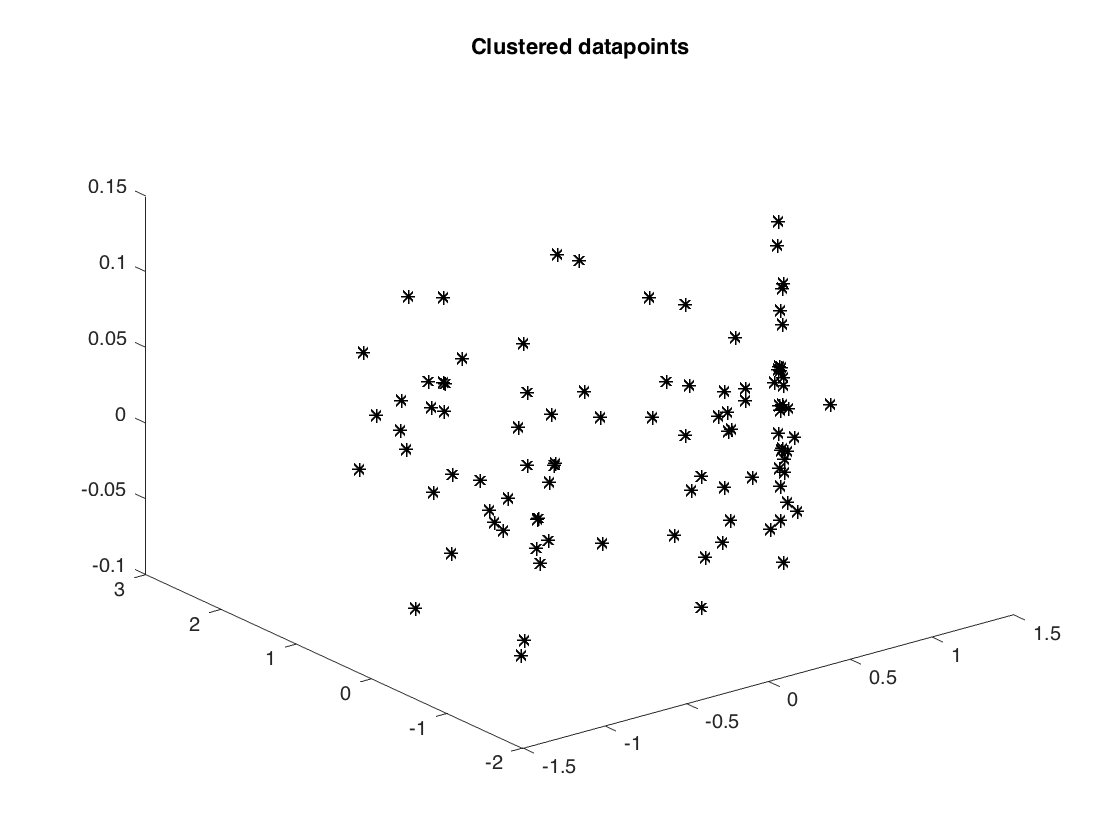
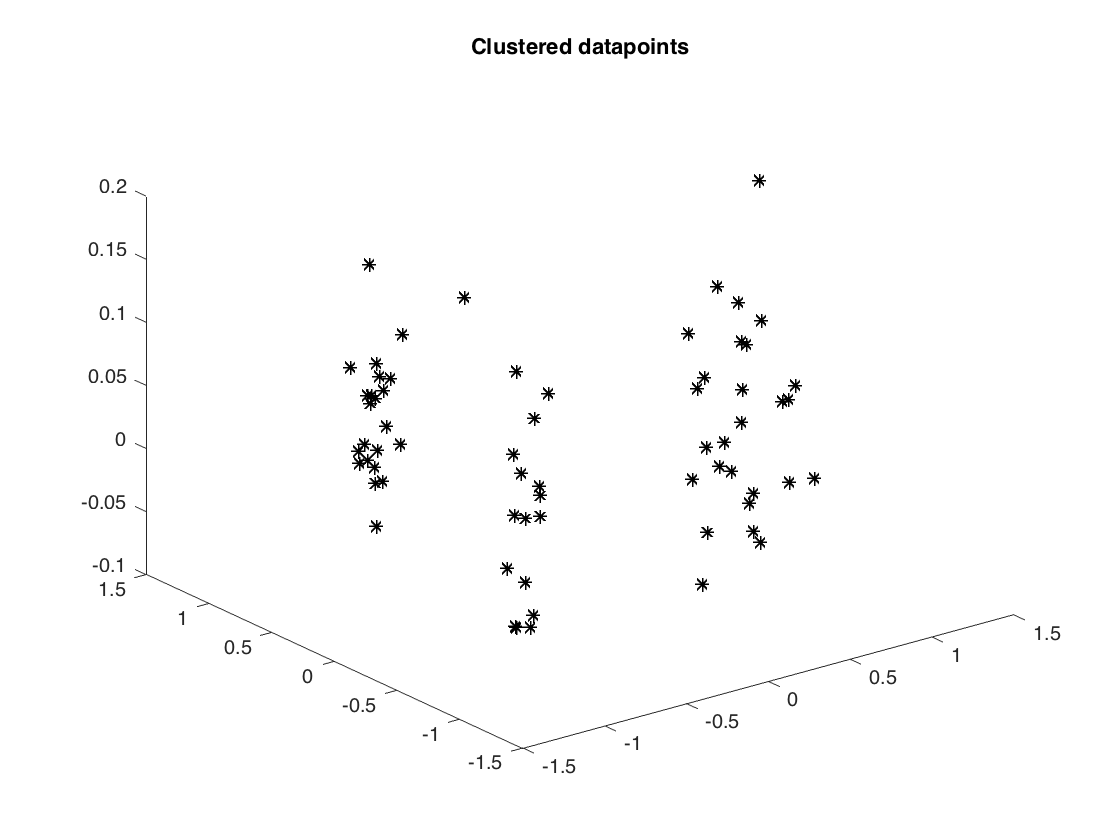
Add files via upload

diff --git a/Chapter07/html/Chapter07.html b/Chapter07/html/Chapter07.html
@@ -6,7 +6,7 @@
    <!--
 This HTML was auto-generated from MATLAB code.
 To make changes, update the MATLAB code and republish this document.
-      --><title>Chapter07</title><meta name="generator" content="MATLAB 8.6"><link rel="schema.DC" href="http://purl.org/dc/elements/1.1/"><meta name="DC.date" content="2020-09-11"><meta name="DC.source" content="Chapter07.m"><style type="text/css">
+      --><title>Chapter07</title><meta name="generator" content="MATLAB 8.6"><link rel="schema.DC" href="http://purl.org/dc/elements/1.1/"><meta name="DC.date" content="2020-09-12"><meta name="DC.source" content="Chapter07.m"><style type="text/css">
 html,body,div,span,applet,object,iframe,h1,h2,h3,h4,h5,h6,p,blockquote,pre,a,abbr,acronym,address,big,cite,code,del,dfn,em,font,img,ins,kbd,q,s,samp,small,strike,strong,sub,sup,tt,var,b,u,i,center,dl,dt,dd,ol,ul,li,fieldset,form,label,legend,table,caption,tbody,tfoot,thead,tr,th,td{margin:0;padding:0;border:0;outline:0;font-size:100%;vertical-align:baseline;background:transparent}body{line-height:1}ol,ul{list-style:none}blockquote,q{quotes:none}blockquote:before,blockquote:after,q:before,q:after{content:'';content:none}:focus{outine:0}ins{text-decoration:none}del{text-decoration:line-through}table{border-collapse:collapse;border-spacing:0}
 
 html { min-height:100%; margin-bottom:1px; }
@@ -77,7 +77,7 @@ m = sum(M);                       <span class="comment">% total number of datapo
 X = [];                           <span class="comment">% dxm matrix to hold the datapoints (d=3)</span>
 <span class="keyword">for</span> h = 1:k
     center_h = [cos(2*pi/k*h); sin(2*pi/k*h); .05*rand];
-    radius_h = rand/h;
+    radius_h = rand/k;
     X_h = [center_h(1) + radius_h*randn(1,M(h));<span class="keyword">...</span>
            center_h(2) + radius_h*randn(1,M(h));
            center_h(3) + .05*randn(1,M(h))];
@@ -133,9 +133,11 @@ n_iters = 100;                           <span class="comment">% number of itera
     <span class="keyword">end</span>
     [~,aux] = min(dist);
     <span class="keyword">for</span> h=1:k
-        C_h = find(aux==h);                          <span class="comment">% the h-th cluster as a set</span>
-        partition_l(:,h) = (aux==h);                 <span class="comment">% the h-th cluster as a 0/1-vector</span>
-        centers(:,h) = sum(X(:,C_h),2)/length(C_h);  <span class="comment">% the h-th center</span>
+        C_h = find(aux==h);                              <span class="comment">% the h-th cluster as a set</span>
+        partition_l(:,h) = (aux==h);                     <span class="comment">% the h-th cluster as a 0/1-vector</span>
+        <span class="keyword">if</span> length(C_h) &gt; 0
+            centers(:,h) = sum(X(:,C_h),2)/length(C_h);  <span class="comment">% the h-th center</span>
+        <span class="keyword">end</span>
    <span class="keyword">end</span>
 <span class="keyword">end</span>
 <span class="comment">% visualize the ouputted clusters</span>
@@ -150,19 +152,20 @@ title(<span class="string">'Clusters produced by Lloyd algorithm'</span>)
 perm = randperm(m);
 comm1 = sort(perm(1:m/2));
 comm2 = sort(perm(m/2+1:m));
-<span class="comment">% define an auxiliary 0/1-matrix whose entries = 0 w.proba=p</span>
+<span class="comment">% define an auxiliary 0/1-matrix whose entries = 1 w.proba=p</span>
 p = 1/4;
-aux2 = (rand(m/2,m/2)&lt;p);
+aux1 = (rand(m/2,m/2)&lt;p);
 <span class="comment">% define an auxiliary 0/1-matrix whose entries = 1 w.proba=q</span>
 q = 3/4;
-aux1 = (rand(m/2,m/2)&lt;q);
-aux1l = tril(aux1) - diag(diag(aux1));
-aux1u = triu(aux1) - diag(diag(aux1));
+aux2 = (rand(m/2,m/2)&lt;q);
+aux2l = tril(aux2) - diag(diag(aux2));
+aux2u = triu(aux2) - diag(diag(aux2));
 <span class="comment">% define the random adjacency matrix W</span>
-W(comm1,comm1) = aux1l+aux1l';
-W(comm1,comm2) = aux2;
-W(comm2,comm1) = aux2';
-W(comm2,comm2) = aux1u+aux1u';
+W = zeros(m,m);
+W(comm1,comm1) = aux2l+aux2l';
+W(comm1,comm2) = aux1;
+W(comm2,comm1) = aux1';
+W(comm2,comm2) = aux2u+aux2u';
 </pre><h2>Cluster according to the leading eigenvector of W - delta*ones(n,n)<a name="8"></a></h2><pre class="codeinput">delta=sum(sum(W))/m^2;
 [V,~] = eigs(W-delta*ones(m,m),1);
 comm1_sp = find(V(:,1)&gt;0)';
@@ -170,7 +173,7 @@ comm2_sp = find(V(:,1)&lt;=0)';
 <span class="comment">% determine the percentage of errors made</span>
 n1 = length(intersect(comm1,comm1_sp))+length(intersect(comm2,comm2_sp));
 n2 = length(intersect(comm1,comm2_sp))+length(intersect(comm2,comm1_sp));
-disp(strcat(<span class="string">'Percentage of errors:'</span>, 32, num2str(100*min(n1,n2)/100), 37))
+disp(strcat(<span class="string">'Percentage of errors:'</span>, 32, num2str(100*min(n1,n2)/m), 37))
 </pre><pre class="codeoutput">Percentage of errors: 0%
 </pre><h2>There seems to be no errors at all when m is large enough!<a name="9"></a></h2><p>Empirical estimation of the error percentage depending on m, p, and q</p><pre class="codeinput">clear <span class="string">all</span>; clc;
 <span class="comment">% parameters for the range of values of m to be tested</span>
@@ -183,9 +186,9 @@ nb_trials = 50;
 q = 3/4;
 p_values = [1/10, 1/5, 1/4, 1/2];
 <span class="comment">% matrix to store the percentage of errors</span>
-nb_errors = zeros(1+ (m_max-m_min)/m_inc ,length(p_values));
+nb_errors = zeros( 1+(m_max-m_min)/m_inc ,length(p_values) );
 <span class="comment">% loop reproducing the above code</span>
-<span class="keyword">for</span> j=1:4
+<span class="keyword">for</span> j=1:length(p_values)
     <span class="keyword">for</span> m = m_min:m_inc:m_max
         err = 0;
         <span class="keyword">for</span> t=1:nb_trials
@@ -219,7 +222,7 @@ plot(m_min:m_inc:m_max,100*nb_errors(:,1),<span class="string">'-*'</span>,<span
     m_min:m_inc:m_max,100*nb_errors(:,3),<span class="string">'-+'</span>,<span class="keyword">...</span>
     m_min:m_inc:m_max,100*nb_errors(:,4),<span class="string">'-s'</span>);
     title(strcat(<span class="string">'q='</span>,num2str(q)));
-    xlabel(<span class="string">'size m of the randon graph'</span>);
+    xlabel(<span class="string">'size m of the random graph'</span>);
     ylabel(<span class="string">'percentage of vertices put in the wrong community'</span>);
 legend(strcat(<span class="string">'p='</span>,num2str(p_values(1))),<span class="keyword">...</span>
     strcat(<span class="string">'p='</span>,num2str(p_values(2))),<span class="keyword">...</span>
@@ -242,7 +245,7 @@ m = sum(M);                       % total number of datapoints
 X = [];                           % dxm matrix to hold the datapoints (d=3)
 for h = 1:k
     center_h = [cos(2*pi/k*h); sin(2*pi/k*h); .05*rand];  
-    radius_h = rand/h;
+    radius_h = rand/k;
     X_h = [center_h(1) + radius_h*randn(1,M(h));...
            center_h(2) + radius_h*randn(1,M(h));
            center_h(3) + .05*randn(1,M(h))];
@@ -290,6 +293,7 @@ for h=1:k
 end
 title('Clusters produced by single linkage')
 
+
 %% naive implementation of Lloyd's algorithm
 centers = [4*rand(2,k)-2; zeros(1,k)];   % dxk matrix to holds the centers (d=3)
 partition_l = zeros(m,k);                % its columns will hold the clusters
@@ -303,9 +307,11 @@ for t=1:n_iters
     end
     [~,aux] = min(dist);
     for h=1:k
-        C_h = find(aux==h);                          % the h-th cluster as a set
-        partition_l(:,h) = (aux==h);                 % the h-th cluster as a 0/1-vector
-        centers(:,h) = sum(X(:,C_h),2)/length(C_h);  % the h-th center
+        C_h = find(aux==h);                              % the h-th cluster as a set
+        partition_l(:,h) = (aux==h);                     % the h-th cluster as a 0/1-vector
+        if length(C_h) > 0
+            centers(:,h) = sum(X(:,C_h),2)/length(C_h);  % the h-th center
+        end
    end
 end
 % visualize the ouputted clusters
@@ -326,19 +332,20 @@ m = 500;
 perm = randperm(m);
 comm1 = sort(perm(1:m/2));
 comm2 = sort(perm(m/2+1:m));
-% define an auxiliary 0/1-matrix whose entries = 0 w.proba=p
+% define an auxiliary 0/1-matrix whose entries = 1 w.proba=p
 p = 1/4;
-aux2 = (rand(m/2,m/2)<p);
+aux1 = (rand(m/2,m/2)<p);
 % define an auxiliary 0/1-matrix whose entries = 1 w.proba=q
 q = 3/4;
-aux1 = (rand(m/2,m/2)<q);   
-aux1l = tril(aux1) - diag(diag(aux1));
-aux1u = triu(aux1) - diag(diag(aux1));
+aux2 = (rand(m/2,m/2)<q);   
+aux2l = tril(aux2) - diag(diag(aux2));
+aux2u = triu(aux2) - diag(diag(aux2));
 % define the random adjacency matrix W
-W(comm1,comm1) = aux1l+aux1l';
-W(comm1,comm2) = aux2;
-W(comm2,comm1) = aux2';
-W(comm2,comm2) = aux1u+aux1u';
+W = zeros(m,m);
+W(comm1,comm1) = aux2l+aux2l';
+W(comm1,comm2) = aux1;
+W(comm2,comm1) = aux1';
+W(comm2,comm2) = aux2u+aux2u';
 
 %% Cluster according to the leading eigenvector of W - delta*ones(n,n)
 delta=sum(sum(W))/m^2;
@@ -348,7 +355,7 @@ comm2_sp = find(V(:,1)<=0)';
 % determine the percentage of errors made
 n1 = length(intersect(comm1,comm1_sp))+length(intersect(comm2,comm2_sp));
 n2 = length(intersect(comm1,comm2_sp))+length(intersect(comm2,comm1_sp));
-disp(strcat('Percentage of errors:', 32, num2str(100*min(n1,n2)/100), 37))
+disp(strcat('Percentage of errors:', 32, num2str(100*min(n1,n2)/m), 37))
            
 %% There seems to be no errors at all when m is large enough!
 % Empirical estimation of the error percentage depending on m, p, and q
@@ -364,9 +371,9 @@ nb_trials = 50;
 q = 3/4;
 p_values = [1/10, 1/5, 1/4, 1/2];
 % matrix to store the percentage of errors
-nb_errors = zeros(1+ (m_max-m_min)/m_inc ,length(p_values));
+nb_errors = zeros( 1+(m_max-m_min)/m_inc ,length(p_values) );
 % loop reproducing the above code
-for j=1:4
+for j=1:length(p_values)
     for m = m_min:m_inc:m_max
         err = 0;
         for t=1:nb_trials            
@@ -400,7 +407,7 @@ plot(m_min:m_inc:m_max,100*nb_errors(:,1),'-*',...
     m_min:m_inc:m_max,100*nb_errors(:,3),'-+',...
     m_min:m_inc:m_max,100*nb_errors(:,4),'-s');
     title(strcat('q=',num2str(q)));
-    xlabel('size m of the randon graph');
+    xlabel('size m of the random graph');
     ylabel('percentage of vertices put in the wrong community');
 legend(strcat('p=',num2str(p_values(1))),...
     strcat('p=',num2str(p_values(2))),...
